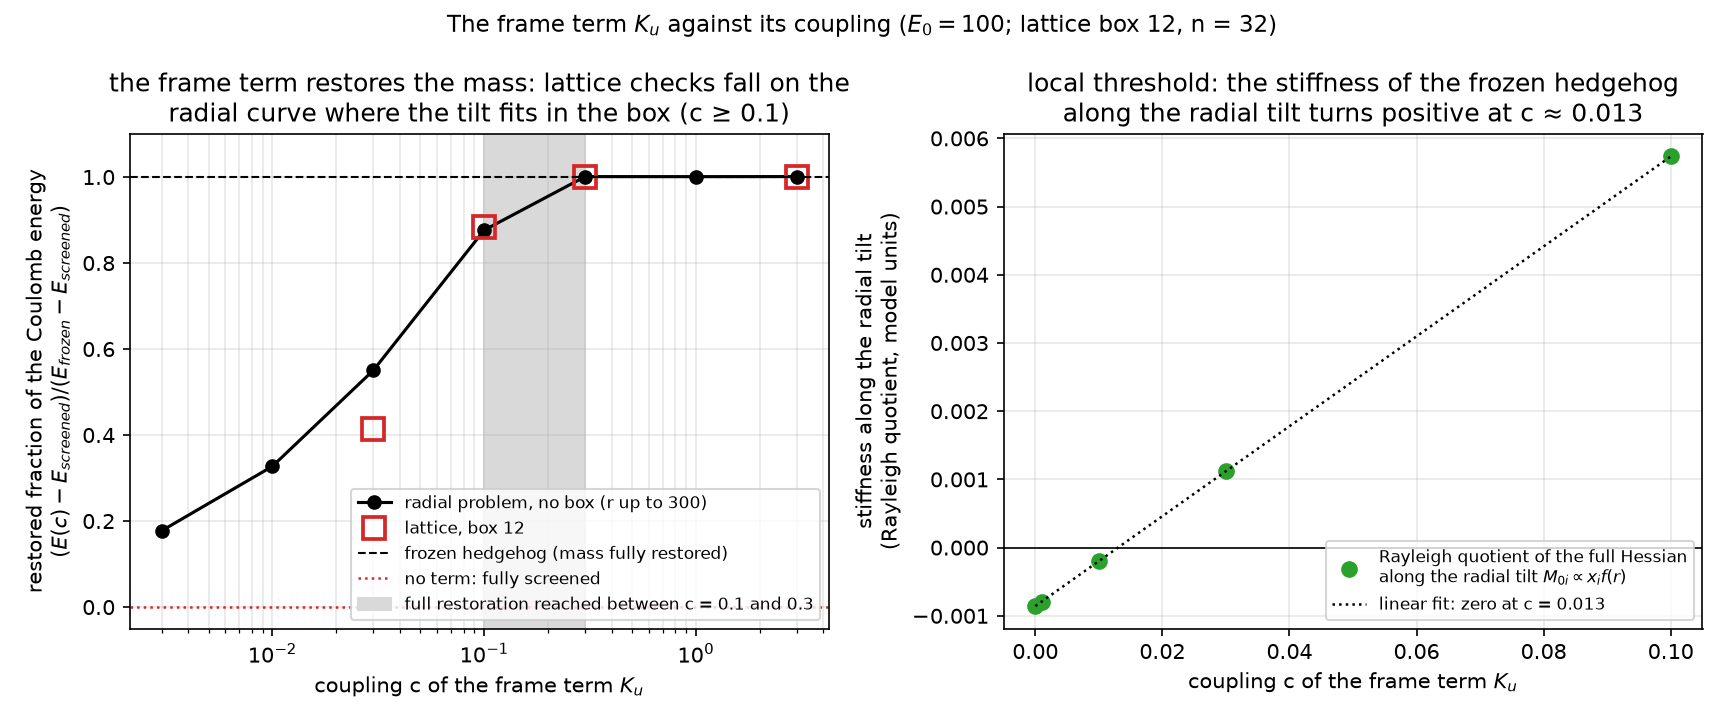
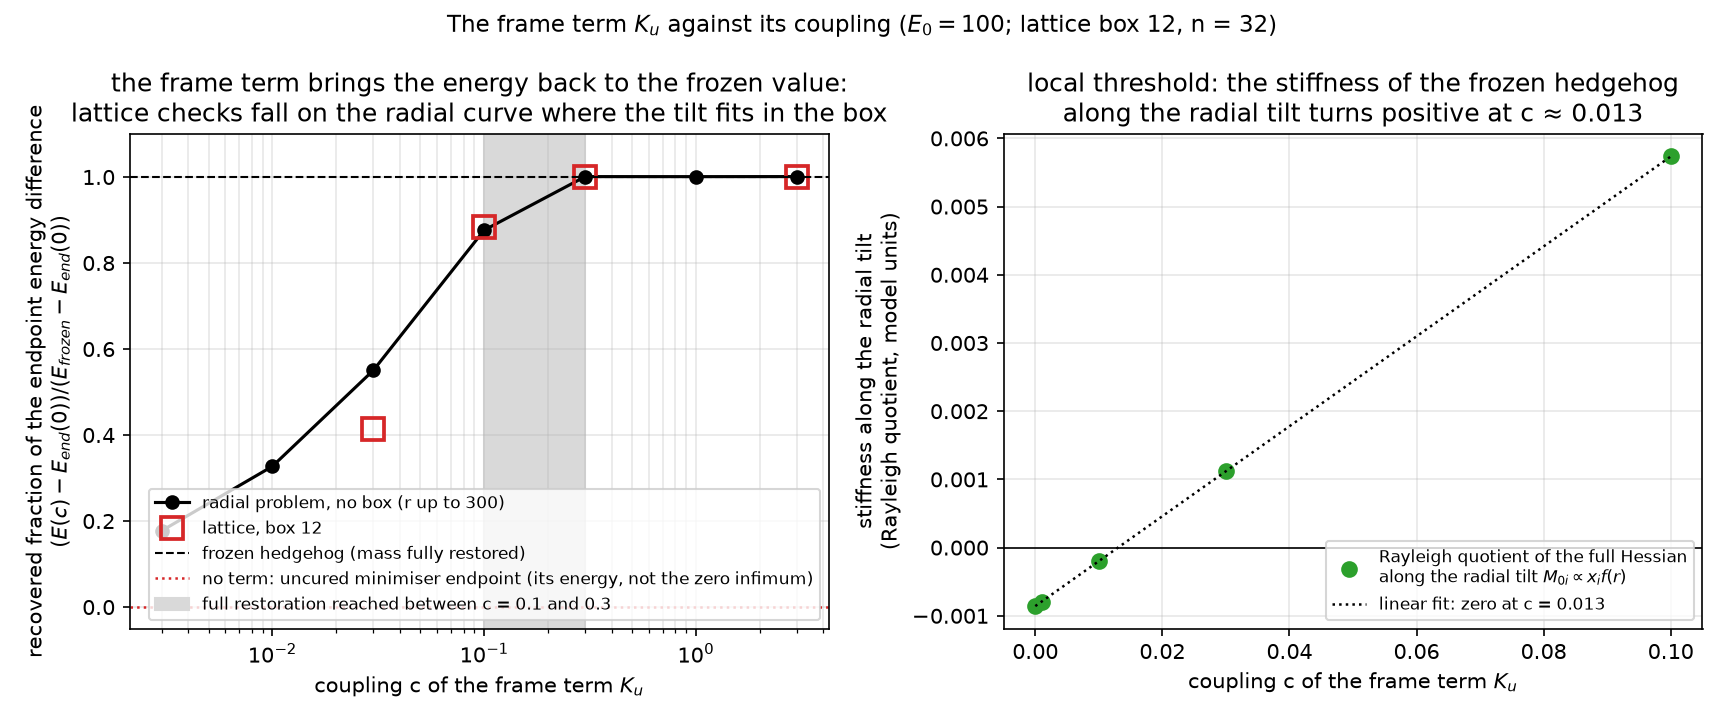
016 review round 2: mass statement kept at the level proved (zero infimum at fixed charge), sampling scope of the kinetic-form check stated, cure figure normalisation labelled as the endpoint energy difference, index row and tail statement aligned with the artifacts
Claude-Session: https://claude.ai/code/session_01QP2nAtvThEMWhiKzux6iWF

Changed region(s): [[0.0, 0.0917, 0.5223, 0.9167], [0.0922, 0.6722, 0.4609, 0.8556]]

diff --git a/reports/016-time-axis-screening/make_figures.py b/reports/016-time-axis-screening/make_figures.py
@@ -83,10 +83,10 @@ def fig_cure():
     ax[0].semilogx(c1, (E1d - Es) / (Ef - Es), 'o-', color='k', label='radial problem, no box (r up to 300)')
     ax[0].semilogx(cl, (El - Es_lat) / (Ef_lat - Es_lat), 's', color='C3', ms=11, mfc='none', mew=1.8, label='lattice, box 12')
     ax[0].axhline(1, color='k', ls='--', lw=1, label='frozen hedgehog (mass fully restored)')
-    ax[0].axhline(0, color='C3', ls=':', lw=1.2, label='no term: fully screened')
+    ax[0].axhline(0, color='C3', ls=':', lw=1.2, label='no term: uncured minimiser endpoint (its energy, not the zero infimum)')
     ax[0].axvspan(0.1, 0.3, color='0.85', label='full restoration reached between c = 0.1 and 0.3')
-    ax[0].set(xlabel='coupling c of the frame term $K_u$', ylabel='restored fraction of the Coulomb energy\n$(E(c) - E_{screened})/(E_{frozen} - E_{screened})$',
-              ylim=(-0.05, 1.1), title='the frame term restores the mass: lattice checks fall on the\nradial curve where the tilt fits in the box (c ≥ 0.1)')
+    ax[0].set(xlabel='coupling c of the frame term $K_u$', ylabel='recovered fraction of the endpoint energy difference\n$(E(c) - E_{end}(0))/(E_{frozen} - E_{end}(0))$',
+              ylim=(-0.05, 1.1), title='the frame term brings the energy back to the frozen value:\nlattice checks fall on the radial curve where the tilt fits in the box')
     ax[0].legend(fontsize=8, loc='lower right')
     cs = np.array([s[0] for s in stiff]); ks = np.array([s[1] for s in stiff])
     ax[1].plot(cs, ks, 'o', color='C2', ms=7, label='Rayleigh quotient of the full Hessian\nalong the radial tilt $M_{0i}\\propto x_i f(r)$')

diff --git a/README.md b/README.md
@@ -24,7 +24,7 @@ behind every number, and a reproduction script.
 | 012 | [Scaling toward the proposed vacuum hierarchy](reports/012-delta-g-scaling/) | Pre-registered 3×3 grid over (δ, g) toward the author's g ~ 10¹⁰, δ ~ 10⁻¹⁰: δ is a flat direction measured AT the target (10⁻¹⁰, 10⁻¹¹ match 1/8 to 0.1%); g is live and potential-variant-sensitive (drive grows in both variants, ω_pred rises in the original theory vs falls in the relative variant; absolute-potential breakdown at g = 512 documented at 13 ulp); both time-part signs stable at all points |
 | 013 | [C10's candidate wells do not certify within a 24-cycle continuation](reports/013-window-convergence/) | A budget-bounded negative on the deepest-probed corner of report 010's open question: the C10 candidate wells at couplings ×10 and ×14 do not certify under a 24-cycle observable-level continuation and the drift shows no sign of saturating (×14 inverts the bracket structure; ×10 keeps close brackets with the top rung below the minimum); the boost bracket of report 008 holds its order under the same budget; the grammar-wide existence question stays open |
 | 015 | [The halo mechanism: a purely quartic gradient energy gives the hedgehog an unbounded moment of inertia](reports/015-halo-inertia/) | Outside the core the model is the Faddeev–Skyrme quartic without a sigma term; an internal tilt θ(r) of the halo costs exactly (32π/3)Δ⁴∫θ′² and carries the inertia (64π/3)Δ⁴∫4 sin²(θ/2)(1 + r²θ′²/2) (lattice: inertia to 2%, cost to 10–30%, two boxes), so the fixed-J infimum is the static energy for every J: no fixed-J minimiser is a rotor with finite frequency and the rotor clock condition E/Ω = 2J cannot be met by one (stationary non-minimal branches and quantization not addressed); fixed-J minimization in a box gives localized deformations with E/(2JΩ) ≈ 70–500 (fitted inertia prefactors within 2% of the exterior formula) |
-| 016 | [The time sector of the electron: screening of the Coulomb energy by a tilt of the time axis, and the frame term that stops it](reports/016-time-axis-screening/) | With the time sector free, the frozen hedgehog is a saddle: the radial tilt of the time axis toward the light cone (a null-direction configuration on which F and every Lorentz scalar in ∂N vanish exactly) screens the Coulomb energy, and without a box the charged configuration has zero energy infimum (a family with F ≡ 0 and E ≤ (8π/3)Δ²R³, charge intact); box 12: 27.3 → 22.0, independent of E₀ from 10 to 1000; every term built from the spectrum or the charge direction is blind to it; the frame term K_u (zero on the whole frozen record) restores the mass with a local threshold c ≈ 0.013 and a global one between 0.1 and 0.3, and opens the model's only linear dynamics (three light-speed tilt modes, no ghost) |
+| 016 | [The time sector of the electron: screening of the Coulomb energy by a tilt of the time axis, and the frame term that stops it](reports/016-time-axis-screening/) | With the time sector free, the frozen hedgehog is a saddle: the radial tilt of the time axis toward the light cone (a null-direction configuration on which F and every Lorentz scalar in ∂N vanish exactly) screens the Coulomb energy, and without a box the charged configuration has zero energy infimum (a family with F ≡ 0 and E ≤ (8π/3)Δ²R³, charge intact); box 12: 27.3 → 22.0, weakly dependent on E₀ (20.4–22.1 from 10 to 1000); every term built from the spectrum or the charge direction is blind to it; the frame term K_u (zero on the whole frozen record) restores the mass with a local threshold c ≈ 0.013 and a global one between 0.1 and 0.3, and opens the model's only linear dynamics (three light-speed tilt modes, no ghost) |
 
 ## How to reproduce
 

diff --git a/reports/016-time-axis-screening/README.md b/reports/016-time-axis-screening/README.md
@@ -80,10 +80,13 @@ Conventions of the development repository `new-duda-lagrangian`
    bounded by 2Δ² inside, and the charge intact; hence
    E ≤ (8π/3)Δ²R³ → 0. Checked symbolically and by integrating the
    model's own density: E(R) ∝ R^3.00, E(0.1) = 0.003
-   (`screened_infimum.py`). The spline minimiser stops at 1 because it
-   cannot resolve a wall thinner than its knot spacing; the physical
-   statement is that with the time sector free the charged
-   configuration has no finite mass at all.
+   (`screened_infimum.py`). The spline minimiser stops near 1 with
+   gradient norms of order 10 (that the knot spacing is what stops it is
+   an interpretation, not a result); the statement that survives is
+   that with the time sector free the charged configuration has zero
+   energy infimum at fixed charge, which excludes a positive global
+   minimum and says nothing about stationary or locally minimal
+   branches.
 3. **Why: the null-direction hedgehog.** At m = Δ the operator is
    N = const − Δ ℓℓᵀη with ℓ = (1, x̂) null, ℓℓᵀη nilpotent and
    traceless; then [∂ᵢN, ∂ⱼN] ≡ 0 and tr(∂ᵢN ∂ⱼN) ≡ 0, so F and every
@@ -110,22 +113,26 @@ Conventions of the development repository `new-duda-lagrangian`
    stays the global minimum up to a coupling between 0.1 and 0.3, above
    which the minimiser returns to the frozen hedgehog: on the lattice to
    27.288 (the frozen value to the digits shown) at c = 0.3 and 3,
-   without a box to the frozen 33.3 within 0.1% (figure below). At
+   without a box to the frozen 33.3 within 0.1% (figure below; its
+   left panel plots the recovered fraction of the energy difference
+   between the uncured minimiser endpoint and the frozen hedgehog). At
    c = 0.1 a partially tilted core survives (lattice 26.7 against the
-   frozen 27.3, radial 29.3 against 33.3) with the Coulomb tail back
-   within 30%; at c = 0.03 the tilt extends beyond the box (half-value
+   frozen 27.3, radial 29.3 against 33.3) with the far-field density
+   back near the Coulomb law up to a residual excess toward the box
+   boundary; at c = 0.03 the tilt extends beyond the box (half-value
    radius 12 in the radial problem against the box half-size 6), and
    the lattice restores less of the mass than the radial problem (0.41
    against 0.55 of the screened energy).
 5. **The sector K_u opens.** Around the vacuum the base model has no
    linear dynamics at all (all ten kinetic eigenvalues zero); with K_u
    the three tilt components M₀ᵢ propagate at unit speed with a positive
-   kinetic form, while the charge director still does not propagate. On
-   the hedgehog background the kinetic form stays positive and every
-   characteristic speed is below 1 (r = 0.5–4), with and without K_u;
-   two kinetic eigenvalues remain exactly zero everywhere, so the system
-   is constrained, and the polarization count and constraint structure
-   are not settled here (`tilt_sector.py`).
+   kinetic form, while the charge director still does not propagate. At
+   the sampled hedgehog points (r = 0.5–4 on the z axis, propagation
+   along z) the kinetic form is positive semidefinite with two null
+   directions, with and without K_u, and the reported z-direction
+   speeds are below 1; the system is constrained, and the polarization
+   count and constraint structure are not settled here
+   (`tilt_sector.py`).
 
 ![screening](results/fig_screening.png)
 
